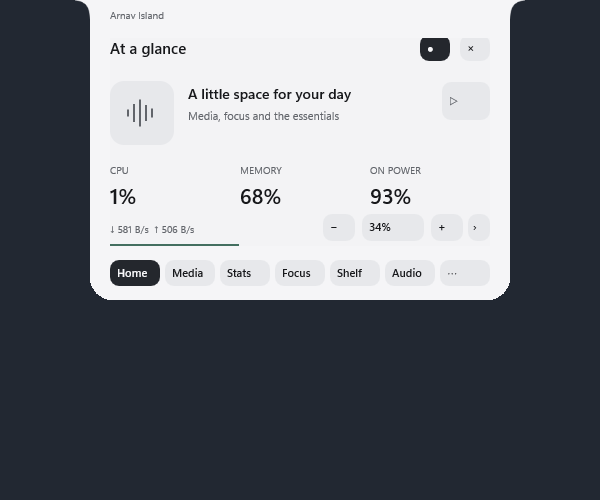
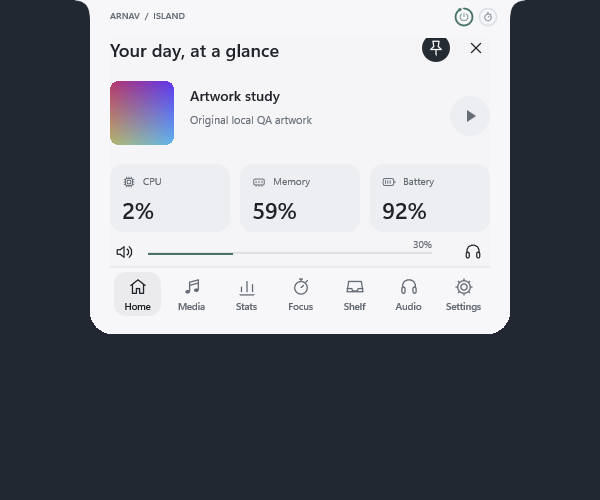
Publish Arnav Island 0.4 visual and multitasking preview

diff --git a/RELEASE_NOTES.md b/RELEASE_NOTES.md
@@ -1,24 +1,29 @@
-# Arnav Island v0.3.0-preview.1
+# Arnav Island v0.4.0-preview.1
 
-Smaller, quieter, connected to the display edge.
+A substantial visual and interaction redesign.
 
-## Changes
-- Top-center curved shoulders; optional right-edge docking.
-- Compact body reduced to 196 × 34 DIPs. Expanded panel is 420 × 300 DIPs.
-- Seven focused views with restrained typography and small controls.
-- One retained artwork visual glides between compact, Home and Media destinations. Album-derived accents are computed off the UI thread.
-- Copy-only OLE file/text shelf with drag-out, deduplication, scroll and clear. Nothing moves or deletes originals.
-- Event-driven audio output enumeration and optional direct switching. Windows sound settings remain available.
-- Charging pulse, compact volume/media/timer information, subtle magnetic hover/press highlight and spring content offset.
-- Dark/light/system themes; scale, width, corner, edge, monitor, offsets, hover/close delays, motion presets, reduced motion, accents, compact activity and glass controls.
-- Per-user sign-in startup, configurable from Preferences → Behavior.
-- Native Windows acrylic is confined to the expanded content interior. Opaque fallback is used when disabled, unavailable, in high contrast or battery saver.
+## New
+- Replaced character-based interface icons with an original 35-symbol vector library. Consistent stroke weight, centered control labels, aligned cards and a compact labelled navigation bar.
+- Interactive icon scale/lift springs and a moving selected-navigation indicator. Motion is interruptible and respects reduced motion and the Animated icons preference.
+- Track artwork blends through two retained compositor surfaces. A new track arriving during a blend starts from the visible composite, avoiding a flash back to the old cover. Artwork still glides between compact/Home/Media positions.
+- Personal layout controls: choose a navigation item, move it left/right, choose three distinct Home metrics, and reset the layout independently.
+- Battery/timer glance rings with native animated endpoint markers. Battery, Timer, Both and Off options; Focus also has a larger progress ring.
+- True pointer-drag volume slider with Left/Right/Home/End keyboard control when focused.
+- Eight preference groups and settings format v4 with migration from v1–v3.
+- Expanded text visibility follows the body's physical geometry, preventing overlap with traveling artwork during fast reversals. Settled text positions snap to physical pixels at fractional scale.
+- Corrected the diagnostic label for a connected media manager without an active session.
 
-## Compatibility and scope
-Windows 11 x64. Media artwork depends on what the player exposes through Windows media sessions: protected services and browsers can omit it. No browser scraping, video capture or DRM bypass is used.
+## Use
+Open Preferences → Personal layout to reorder navigation and select Home statistics. Preferences → Fine details controls animated icons, handoff and glance rings. The compact body remains 196 × 34 DIPs by default; the expanded panel is 420 × 334 DIPs with room for labelled controls.
 
-Direct output switching is an isolated, optional undocumented Windows compatibility interface; it can be disabled in Activities preferences. A failed switch does not claim success, and the Windows sound-settings button remains available. Communications routing is not deliberately changed.
+## Scope
+Windows 11 x64. Media artwork still depends on OS-exposed player metadata; no service scraping or video capture is used. Ring arcs update with actual battery/timer snapshots, while endpoint markers animate independently on the compositor. No artificial perpetual icon or ring animation runs at idle.
 
-Shelf entries live in memory and disappear on exit; file rows preview names, not file contents. Image files can be held as file references; bitmap and virtual cloud-file drag formats are not supported. The island reacts on drag entry, not before the pointer reaches its region.
+The file shelf holds in-memory path/text references with filename previews and copy-only drag-out. Audio default switching remains an optional isolated compatibility interface with a Windows sound-settings fallback. Existing startup and appearance preferences are preserved on upgrade.
 
-The preview is unsigned. Full UI Automation/text scaling, high-refresh hardware validation, mixed-DPI hot-plug, long-duration reliability and device-loss recovery remain unfinished. No measured smoothness guarantee or universal player compatibility is claimed.
+This is an unsigned preview, not a certification for deployment to hundreds of millions of machines. Full UI Automation, text-scale/high-contrast coverage, device-loss recovery, mixed-monitor/high-refresh validation and extended soak testing remain release gates.
+
+## Multitasking polish
+- Configurable spring collapse when switching to another app, preserving page, timer and shelf state. Pinning and active drags are respected.
+- Foreground size-change events detect entering fullscreen without an app switch. DWM visible bounds avoid treating invisible resize borders as fullscreen content.
+- Slider-only volume scrolling by default; an optional preference restores scrolling anywhere on the island.

diff --git a/README.md b/README.md
@@ -1,25 +1,29 @@
 # Arnav Island
 
-A small, local Windows 11 island with smooth native motion and a curved connection to the display edge.
+A native Windows 11 island with original vector icons, restrained information design and responsive physical motion.
 
-[Download v0.3.0-preview.1 for Windows x64](https://github.com/Arnav-Dugad/arnav-island/releases/tag/v0.3.0-preview.1)
+[Download v0.4.0-preview.1 for Windows x64](https://github.com/Arnav-Dugad/arnav-island/releases/tag/v0.4.0-preview.1)
 
-![Arnav Island dashboard](images/overview.png)
+![Arnav Island](images/overview.png)
 
-Hover to open. Browse Media, Stats, Focus, Shelf, Audio and Preferences. Hold files or text temporarily, switch audio outputs, keep track of timers, and customize the shape, theme, motion and startup behavior.
+## A new visual system
 
-![Compact island](images/compact.png)
+- Sharp vector navigation, media, audio, file and system icons with physical hover/press feedback.
+- Aligned statistic cards, centered controls and a labelled navigation bar.
+- Track handoff that blends outgoing and incoming covers, including interrupted changes.
+- Personal layouts: reorder all seven navigation items and choose three Home statistics.
+- Battery and timer glance rings with animated markers.
+- App-switch collapse that preserves your page and timer, pinned panels, improved fullscreen detection and safer slider-only volume scrolling.
+- A real draggable volume slider, local system information, media controls, timers, audio outputs and copy-only file shelf.
 
-Extract the ZIP and launch ArnavIsland.exe. No account, cloud, subscription, browser engine, driver or administrator access is required. This is an unsigned preview.
+![Compact activity and glance rings](images/compact.png)
 
-- Small top-center dock; optional right-edge placement.
-- Persistent artwork glide, compact activities, physical hover feedback and charging pulse.
-- Native acrylic inside expanded panels with opaque fallback.
-- Five preference groups, sign-in startup toggle, dark/light/system themes and configurable hover.
-- Real Windows media, battery, CPU/RAM/network statistics and output devices.
+Extract the ZIP and run ArnavIsland.exe. No account, subscription, cloud, browser engine, driver or administrator access is required. Existing settings and sign-in startup controls remain local.
 
-[Quick start](QUICK_START.md) · [Release notes and limitations](RELEASE_NOTES.md) · [Future ideas](FUTURE_IDEAS.md)
+[Quick start](QUICK_START.md) · [Release notes](RELEASE_NOTES.md) · [Design system](DESIGN_SYSTEM.md) · [Future ideas](FUTURE_IDEAS.md)
 
-Media artwork depends on what Windows receives from the player. Direct audio switching is an optional compatibility interface. File shelf entries are in-memory references and text, copy-only; file-content previews are not included. Full accessibility, mixed-DPI/high-refresh validation and long-duration reliability remain unfinished. No complete feature or performance guarantee is made.
+The artwork study is explicitly labelled synthetic local QA artwork. Real thumbnails depend on what Windows receives from the player. Audio default switching uses an optional isolated compatibility interface. Shelf entries are in-memory references/text, copy-only, with filename previews.
 
-This public repository hosts releases and user documentation. The development repository remains private.
+This is an unsigned preview. Full accessibility, mixed-DPI/high-refresh validation, GPU device-loss recovery and long-duration reliability remain unfinished. Sparse native motion captures and passing tests are not a universal frame-pacing or production-scale guarantee.
+
+This public repository distributes releases and user documentation. Development source remains private.

diff --git a/DESIGN_SYSTEM.md b/DESIGN_SYSTEM.md
@@ -1,0 +1,34 @@
+# Visual and interaction system — 0.4
+
+## Intent
+The island is a persistent object. Its interior needs hierarchy and readable alignment before decoration. The compact silhouette stays small; the expanded surface has a clear title, one principal task area, supporting information and one navigation row.
+
+## Geometry and typography
+- 20 DIP panel margins and a 380 DIP content width.
+- Home uses three 120 DIP statistic cards with 10 DIP gaps.
+- Navigation uses seven equal slots with visible labels, a retained selection indicator and moving icon hit regions.
+- Text uses Segoe UI Variable Text with explicit weight and centered rectangle alignment for controls. Titles are 18 DIPs, primary values 23 DIPs, normal control text 11.5 DIPs and navigation captions 9.5 DIPs.
+- Surfaces render at effective DPI. Stable body/content offsets snap to physical pixels. Text itself is not scaled during island size changes; temporary animated transforms remain subpixel for smooth movement.
+
+## Original vector icons
+`src/Design/Icons.h` defines 35 symbols on a 24-unit optical grid, with rounded 1.65-unit strokes and deliberate filled playback forms. No emoji, symbol-font dependence or copied Apple assets are used for interface icons. Decorative statistics symbols remain quiet; interactive icons use retained compositor visuals.
+
+Hover changes icon scale to 1.09 and raises it 1.25 DIPs. Press compresses to 0.88. Springs recover from their current state, including when input reverses. Motion tokens live in `MotionEngine.h`. Disabled actions keep muted treatment. Labels remain untransformed.
+
+## Artwork continuity
+Two retained 256-DIP surfaces carry the outgoing composite and the incoming cover. On a new track, a bounded 256×256 CPU snapshot combines the currently visible frames and resamples the new cover. This work happens once per cover change, never once per animation frame. DirectComposition animates incoming opacity; the common parent retains geometry/scale motion. Rapid replacement stores two bounded buffers rather than a growing queue of covers.
+
+The body geometry gates expanded content and header visibility. During a fast reversal the cover travels through a clear surface, rather than across fading labels. The opacity projection is converted to the same adaptive compositor curves as the springs. No UI-thread frame loop is used.
+
+## Rings and information
+Battery progress comes from the OS; focus progress comes from elapsed time. Arcs update on meaningful snapshots (once per second for a running timer). Their endpoint markers use native rotation springs. The large Focus ring and numeric countdown use the same clock state. No timer progress is invented when the timer is idle.
+
+## Personal layouts
+Settings v4 stores a validated permutation of all seven pages and three distinct metric IDs. Reordering cannot remove Settings or another page. Invalid permutations restore only the layout default rather than invalidating unrelated preferences. Navigation hit testing follows the current physical icon positions during a reorder. Personal layout has its own Reset action.
+
+## Evidence and limits
+Actual native captures include dark/light, 110% application scale, right edge, compact rings, focus, settings and rapid handoff/reversal frames. These are visual checks, not high-refresh frame-pacing measurements. Full accessibility and broader display/hardware validation remain unfinished.
+
+## Multitasking
+
+The eighth preference group controls app-switch collapse and volume-wheel scope. Collapsing preserves physical position/velocity through the existing MotionEngine, as well as current page and activity state. Pinning overrides app-switch dismissal. These behaviors do not identify or track applications.

diff --git a/FUTURE_IDEAS.md b/FUTURE_IDEAS.md
@@ -1,18 +1,16 @@
-# Next design candidates
+# Further design candidates
 
-These are suggestions, not shipped capabilities.
+These are suggestions, not shipped features.
 
-1. **Track handoff** — outgoing and incoming covers briefly share the same space, with readable title changes.
-2. **True drag absorption** — carry a file's shell drag image into the shelf and reverse the motion on drag-out.
-3. **Glance rings** — choose two tiny, readable indicators for timer, battery or daily focus while collapsed.
-4. **Quiet focus scene** — dim nonessential controls during a running timer and reveal them as your pointer approaches.
-5. **Precision scrubber** — a larger timeline appears under the pointer for accurate media seeking, where supported.
-6. **Personal layouts** — reorder views and select which two statistics appear on Home.
-7. **Display profiles** — remember geometry, scale and fullscreen behavior separately for each monitor.
-8. **Accessible narration** — a full UI Automation tree, text-size adaptation and polished high-contrast palette.
-9. **Shelf previews** — decode small image/file thumbnails asynchronously without opening originals or persisting content.
-10. **Motion recorder** — capture a reproducible transition trace and flag stalls using real present statistics.
-11. **Output handoff** — show connection status and confirmation when switching between speakers and headphones.
-12. **Session continuity** — restore chosen timers and layouts after restart, with explicit shelf-persistence consent.
-13. **Intent-aware hover** — distinguish a pointer passing through from a deliberate approach before expanding.
-14. **Adaptive density** — condense secondary text gracefully as panel width changes instead of clipping labels.
+1. **Cover-derived atmospheres** — a very faint, readable ambient glow behind playing media.
+2. **Precision timeline** — expand the scrubber under the pointer for accurate seeking in supported players.
+3. **Drag absorption** — carry the real shell drag image into and out of the file shelf.
+4. **Shelf previews** — safe asynchronous image thumbnails and recognizable file previews.
+5. **Intent-aware hover** — distinguish a passing pointer from a deliberate approach.
+6. **Display profiles** — remember layouts and fullscreen policies for each monitor.
+7. **Saved scenes** — switch between work, media and focus arrangements with one compact control.
+8. **Accessible narration** — complete screen-reader semantics, text scaling and keyboard focus treatment.
+9. **Output handoff** — clear device connection and route confirmation during headphone/speaker switching.
+10. **Resume your session** — restore chosen timers and layouts after restart with explicit persistence controls.
+11. **Motion diagnostics** — present-time traces and latency measurements for reproducible performance investigations.
+12. **Typography adaptation** — adjust secondary labels gracefully at extreme scale or long translated text.

diff --git a/QUICK_START.md b/QUICK_START.md
@@ -14,3 +14,15 @@ Settings: `%LOCALAPPDATA%\ArnavIsland\settings.nexus`. Logs: same folder, `event
 Artwork appears only when Windows media metadata provides it. Use Media's Auto/Music/Video selector for ambiguous browser sessions. Play/previous/next are disabled when the player does not advertise the capability. The app does not suppress the normal Windows volume flyout.
 
 Remove sign-in startup before deleting the portable folder. No service, driver or Explorer modification is installed.
+
+## v0.4 preferences and controls
+
+Navigation now uses labelled vector icons. Open **Settings → Personal layout** (cycle the group selector) to choose an item and move it left/right. The three Home statistic rows cycle among CPU, memory, battery, download, upload, disk free and uptime, skipping duplicates.
+
+**Fine details** controls Animated icons, Track handoff and Glance rings. Reset layout restores navigation and Home statistics without changing other preferences. Drag the Home volume line to set a level; when keyboard focus is on it, Left/Right adjust by two points and Home/End select 0/100. The normal mouse wheel volume control remains available.
+
+Artwork blends only when supplied by Windows media metadata. The ring arcs use real state updates; their markers animate through the compositor. Existing startup and other preferences are preserved when installing this update at the same path.
+
+## Working alongside other apps
+
+Preferences → Multitasking controls collapse on app switching and optional scroll-anywhere volume. Unpinned panels collapse without resetting your selected page or timer; pinned panels and active drags remain open. By default, scroll over the volume slider to adjust volume. Shelf and output lists scroll normally.
